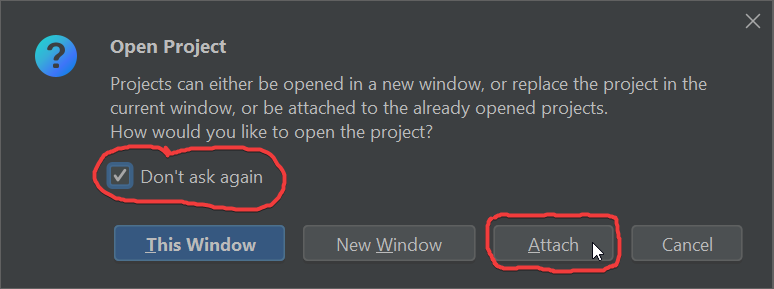
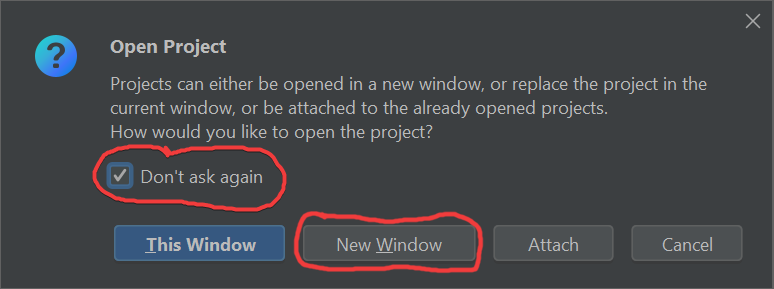
changed from attach to new window

Changed region(s): [[0.3721, 0.7163, 0.8062, 0.9654]]

diff --git a/src/content/1/en/part1a.md b/src/content/1/en/part1a.md
@@ -22,9 +22,12 @@ is that in step 3 we need to do is say ***File->New Project from Version Control
 I would also make sure to check **trust projects** that is presented in the first window so that you don't have to keep doing so.
 ![clicking trust projects](../../images/1/custom/trust_projects.png)
 
-Lastly, I would choose the option ***Attach*** and check ***don't ask again*** in the next window.
-Attaching the project will provide you with one window where all of your projects would be.
-![attach and don't ask again](../../images/1/custom/attach_dont_ask.png)
+Lastly, I would choose the option ***New Window*** and check ***don't ask again*** in the next window.
+Using a new window with the project will provide you with a new window for every project.
+Having a new window is nice for having a separate area but not being confined to having only one project open at a time.
+I liked using attach, which puts all the repos in a single folder.
+However, this creates more issues in particular views like the git view as it shows you all the same files and you have to keep making sure you have the right path.
+![new window and don't ask again](../../images/1/custom/attach_dont_ask.png)
 
 You can click on the [project bar in the upper right](../../images/1/custom/webstorm_project.png) to return to see that you should now have two sets of folders: *lab0* and *lab1*.
 
